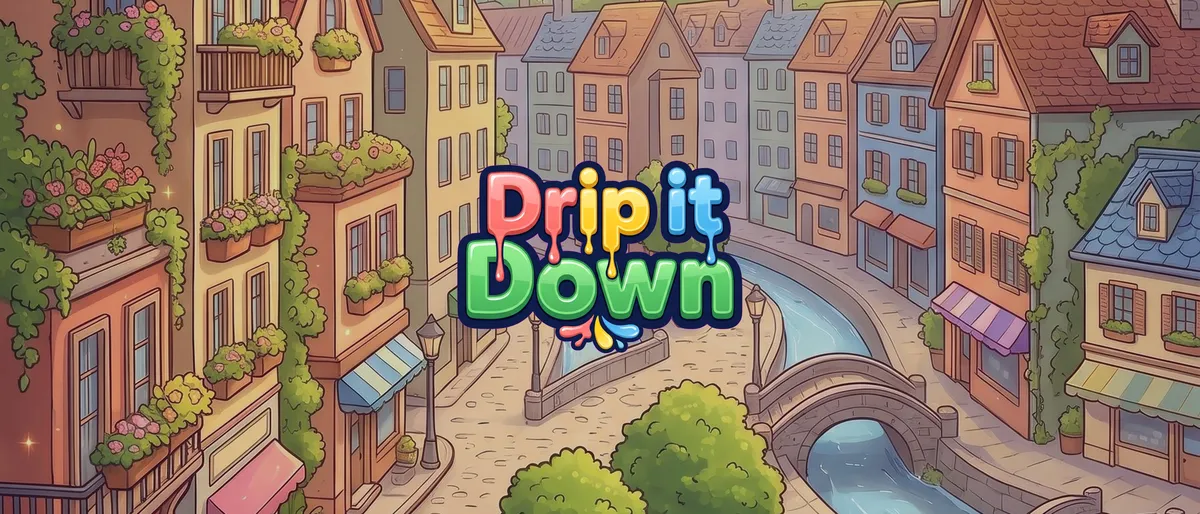
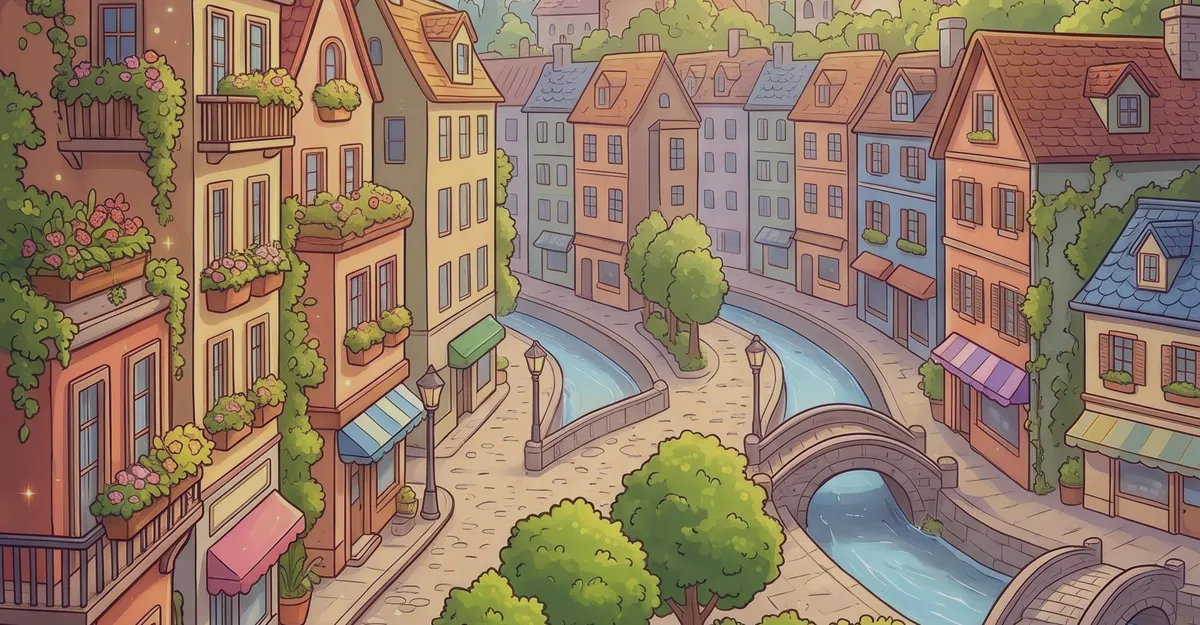
paint-out: paint-out: fondo de la cabecera sin el logotipo repetido y tarjetas en 2×2

diff --git a/paint-out/game.css b/paint-out/game.css
@@ -110,3 +110,7 @@ html { scrollbar-color: #3b54b8 var(--bg); }
 .facts { display: grid; grid-template-columns: max-content 1fr; gap: 6px 18px; margin: 18px 0 0; }
 .facts dt { color: var(--muted); } .facts dd { margin: 0; }
 .btn-dl { display: inline-flex; align-items: center; min-height: 48px; padding: 0 22px; border-radius: 14px; background: var(--red); color: #fff; font-weight: 800; text-decoration: none; margin-top: 18px; }
+
+/* cuatro tarjetas: 2 × 2, sin una huérfana */
+#game .grid { grid-template-columns: repeat(2, minmax(0, 1fr)); }
+@media (max-width: 700px) { #game .grid { grid-template-columns: minmax(0, 1fr); } }
